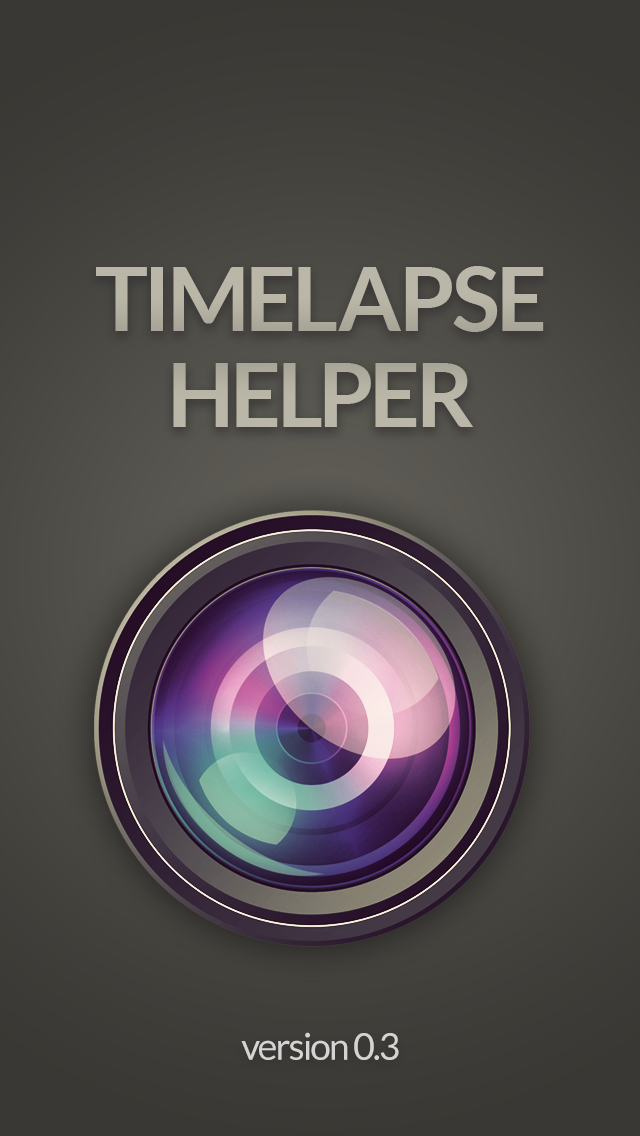
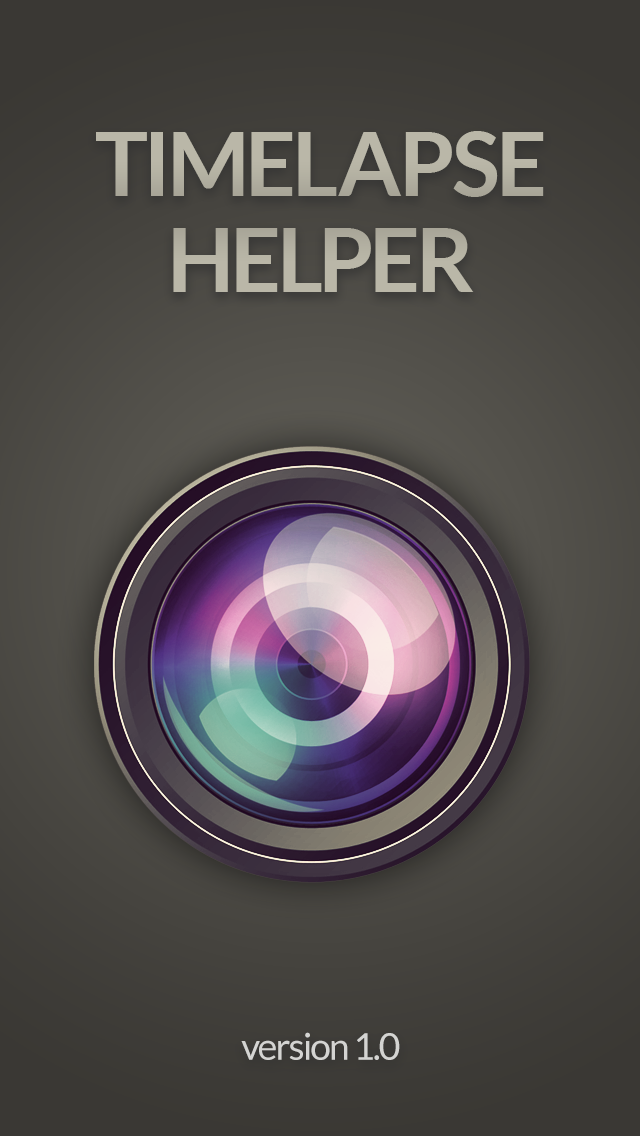
Made the interval label tappable
The Interval label can now be double-tapped to enter 'Interval
Calculation mode', where the Interval is calculated rather than the
playback time.

Also updated the cover art and made the version number on the info page
auto-update.

Changed region(s): [[0.125, 0.0924, 0.8438, 0.8319], [0.5625, 0.8935, 0.625, 0.9551]]

diff --git a/credits/credits.html b/credits/credits.html
@@ -33,6 +33,12 @@
 			a:visited {
 				color:#69F;
 			}
+            
+            h1 {
+                font-size: 1.5em;
+                margin-top: 0;
+                padding-top: 0;
+            }
 			
         </style>
         
@@ -40,7 +46,15 @@
 
 	<body>
 		
-		<p>Thanks for downloading this app. I've released it as Free Software under a GPL license, so you can find the source over at <a href="https://github.com/sighmon/Timelapse-Calculator">github</a>. The math is Dan Thompson's code from his Timelapse Calculator which can be found here: <a href="http://openmoco.org/node/295">openmoco.org</a>. If you have any feature requests or bug fixes, please send them my way or fork the code and release your own version!</p>
+		<h1>What's new?</h1>
+        
+        <p><b>Interval Calculations</b> - You can now switch the calculator into Interval mode by toggling the switch above. This allows you to calculate the Interval (in seconds) between photos to produce a timelapse of a set length.</p>
+        
+        <p>To quickly switch between interval mode and normal mode in the calculations screen, double-tap the Interval label or the bottom bar. A red dot will appear next to the Inveral label when it is in Interval Calculation mode.</p>
+        
+        <h1>Credits</h1>
+        
+        <p>Thanks for downloading this app. I've released it as Free Software under a GPL license, so you can find the source over at <a href="https://github.com/sighmon/Timelapse-Calculator">github</a>. The math is Dan Thompson's code from his Timelapse Calculator which can be found here: <a href="http://openmoco.org/node/295">openmoco.org</a>. If you have any feature requests or bug fixes, please send them my way or fork the code and release your own version!</p>
 		
 		<div class="person">
         	<img src="si.png">

diff --git a/Classes/MainViewController.m b/Classes/MainViewController.m
@@ -101,7 +101,6 @@
 
 - (IBAction)textFieldDoneEditing:(id)sender
 {
-    // TODO: add an if intervalToggle statement here.
 	[self updateSettingsScript];
 	
 	[sender resignFirstResponder];
@@ -109,7 +108,6 @@
 
 - (IBAction)backgroundClick:(id)sender
 {
-	// TODO: add an if intervalToggle statement here.
 	[self updateSettingsScript];
 	
 	[intervalField resignFirstResponder];
@@ -301,7 +299,6 @@
                      andSeconds: (int) secs 
                        andShots: (int) shots
 {
-    // TODO: check this is right before release
     int seconds = (days * 24 * 60 * 60) + (hrs * 60 * 60) + (mins * 60) + secs;
     int interval = seconds / shots;
     
@@ -316,7 +313,6 @@
                                andFrames:(int)frames 
                                   andFPS:(int)fps
 {
-    // TODO: check this is right before release
     int totalPlaybackSeconds = (hrs * 60 * 60) + (mins * 60) + secs;
     int shots = totalPlaybackSeconds * fps;
     
@@ -417,7 +413,6 @@
 - (void)updateIntervalShootingScript 
 {
     if ([shotsField.text intValue] > 0) {
-        // TODO: check this is right before release
         [self intervalCentricWithDays:[shootingPicker selectedRowInComponent:kShootingDays] andHours:[shootingPicker selectedRowInComponent:kShootingHours] andMinutes:[shootingPicker selectedRowInComponent:kShootingMinutes] andSeconds:[shootingPicker selectedRowInComponent:kShootingSeconds] andShots:[shotsField.text intValue]];
     } else {
         intervalField.text = @"0";
@@ -427,7 +422,6 @@
 - (void)updateIntervalPlaybackScript
 {
     if ([shotsField.text intValue] > 0) {
-        // TODO: make an updateIntervalPlaybackScript
         [self intervalCentricPlaybackWithHours:[playbackPicker selectedRowInComponent:kPlaybackHours] andMinutes:[playbackPicker selectedRowInComponent:kPlaybackMinutes] andSeconds:[playbackPicker selectedRowInComponent:kPlaybackSeconds] andFrames:[playbackPicker selectedRowInComponent:kPlaybackFrames] andFPS:[fpsField.text intValue]];
     } else {
         intervalField.text = @"0";
@@ -537,7 +531,6 @@
 
 -(void) pickerView:(UIPickerView *)pickerView didSelectRow: (NSInteger) row inComponent: (NSInteger) component
 {
-    // TODO: Fix interval script
 	if (intervalToggle == YES) {
         if (pickerView == playbackPicker) {
             [self updateIntervalPlaybackScript];
@@ -614,6 +607,10 @@
         [self toggleIntervalSelected];
     }
     
+    // Also make the Interval Label tag tappable (it's tag is set to 1)
+    if (touch.view.tag == 1 && tapCount > 2) {
+        [self toggleIntervalSelected];
+    }
 }
 
 - (void)toggleIntervalSelected {

diff --git a/Classes/FlipsideViewController.m b/Classes/FlipsideViewController.m
@@ -25,7 +25,7 @@
 
 @implementation FlipsideViewController
 
-@synthesize delegate, creditsView, intervalFieldSetting, shotsFieldSetting, fpsFieldSetting, intervalToggleSetting;
+@synthesize delegate, creditsView, intervalFieldSetting, shotsFieldSetting, fpsFieldSetting, intervalToggleSetting, versionNumber;
 
 
 - (void)viewDidLoad {
@@ -44,6 +44,9 @@
     } else {
         [intervalToggleSetting setOn:NO animated:YES];
     }
+    // Calculate the version number from the bundle plist
+    versionNumber.text = [NSString stringWithFormat:@"Version %@ (%@)", [[[NSBundle mainBundle] infoDictionary] objectForKey:@"CFBundleShortVersionString"], [[[NSBundle mainBundle] infoDictionary] objectForKey:@"CFBundleVersion"]];
+
 	
 	// self.creditsView.scalesPageToFit = YES;
 	creditsView.delegate = self;

diff --git a/Classes/FlipsideViewController.h b/Classes/FlipsideViewController.h
@@ -32,6 +32,7 @@
     IBOutlet UITextField *shotsFieldSetting;
     IBOutlet UITextField *fpsFieldSetting;
     IBOutlet UISwitch *intervalToggleSetting;
+    IBOutlet UILabel *versionNumber;
 }
 
 // TODO: implement fields updating default fields.
@@ -42,6 +43,7 @@
 @property (nonatomic, retain) IBOutlet UITextField *shotsFieldSetting;
 @property (nonatomic, retain) IBOutlet UITextField *fpsFieldSetting;
 @property (nonatomic, retain) IBOutlet UISwitch *intervalToggleSetting;
+@property (nonatomic, retain) IBOutlet UILabel *versionNumber;
 
 - (IBAction)done:(id)sender;
 - (IBAction)intervalToggleChanged:(id)sender;

diff --git a/README.md b/README.md
@@ -4,8 +4,8 @@
 ## What's New?
 Version 1.0
 
-* Implemented 'Interval Calculator' mode toggle switch in the User Default Settings & info page.
-* Double-tapping the bottom bar still toggles 'Interval Calculator' mode too.
+* Implemented 'Interval Calculator' mode toggle switch in the User Default Settings & info page. When turned 'on', the app will calculate the interval (in seconds) between photos to shoot a time-lapse of a desired length.
+* To quickly switch between modes, double-tap the Interval label or the bottom bar.
 
 Version 0.3
 
